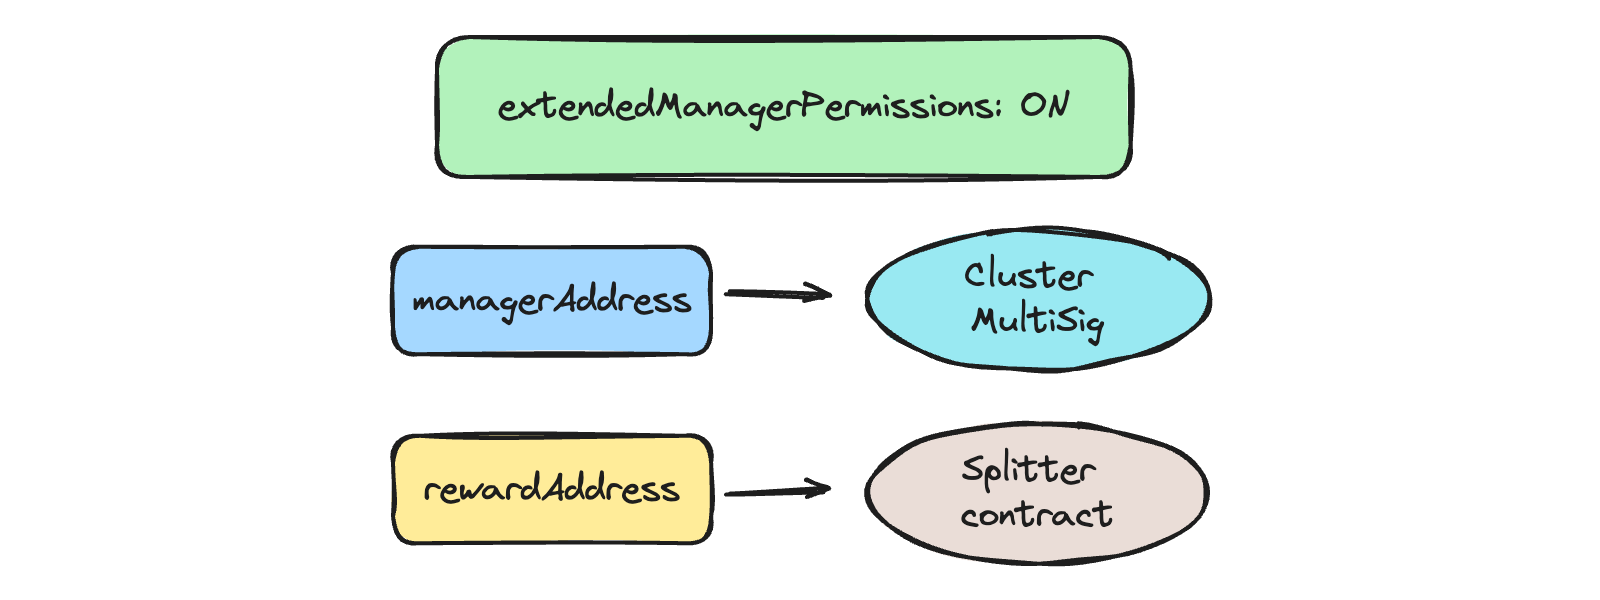
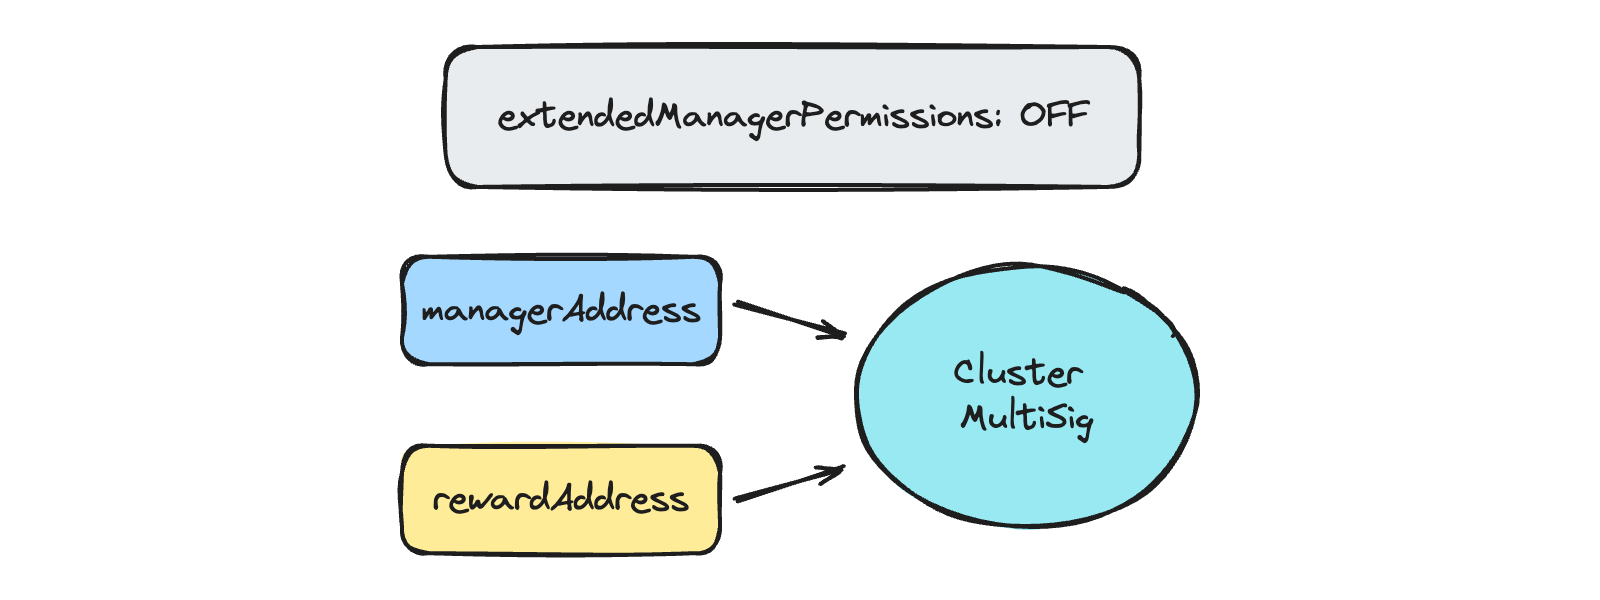
chore: Review fixes

Changed region(s): [[0.2188, 0.36, 0.7812, 0.96], [0.25, 0.03, 0.7188, 0.33], [0.5938, 0.51, 0.6875, 0.57]]

diff --git a/docs/staking-modules/csm/guides/addresses.md b/docs/staking-modules/csm/guides/addresses.md
@@ -110,23 +110,26 @@ By default, the Node Operator's creator is set as a `managerAddress` and `reward
 
 ![addresses-2](../../../../static/img/csm/addresses-2.png)
 
-It is recommended that addresses be re-assigned according to one of the optimal configurations below.
+Following the creation of the node operator (i.e. once at least one key has been registered), it is recommended that addresses be re-assigned according to one of the optimal configurations below.
 
 ### Optimal for solo operator
 
-It is considered optimal to set `managerAddress` to a "Hot" or easily accessible address and `rewardAddress` to a secure "Cold" wallet or even a MultiSig if you are a solo operator.
+It is considered optimal to set `managerAddress` to a "Hot" or easily accessible address and `rewardAddress` to a secure "Cold" wallet or even multisig with arbitrary call functionality, such as [Safe](https://app.safe.global) if you are a solo operator.
 
 ![addresses-3](../../../../static/img/csm/addresses-3.png)
 
-### Optimal for DVT operator
+### Optimal for DVT cluster
 
-Several optimal options exist for the DVT operators.
+Several optimal options exist for DVT clusters.
 
-The first is to set `managerAddress` to a "Hot" or just easily accessible address controlled by the cluster coordinator and `rewardAddress` to a cluster MultiSig.
+The first is to set `managerAddress` to a "Hot" or just easily accessible address controlled by the cluster coordinator and `rewardAddress` to a cluster MultiSig. This option is only recommended in cases where cluster participants trust the coordinator completely (or have other types of guarantees/agreements in place) or if the DVT setup is an intra-operator setup rather than an inter-operator setup.
 
 ![addresses-4](../../../../static/img/csm/addresses-4.png)
 
-
-The second option is to set `managerAddress` to a cluster MultiSig, `rewardAddress` to a splitter contract, and enable `extendedManagerPermissions`.
+The second option is to create a CSM Node operator from a cluster MultiSig, setting `managerAddress` and `rewardAddress` to a cluster MultiSig.
 
 ![addresses-5](../../../../static/img/csm/addresses-5.png)
+
+The third option is to set `managerAddress` to a cluster MultiSig, `rewardAddress` to a splitter contract (e.g. to benefit from automated rewards splitting between cluster participants), and enable `extendedManagerPermissions`.
+
+![addresses-6](../../../../static/img/csm/addresses-6.png)
